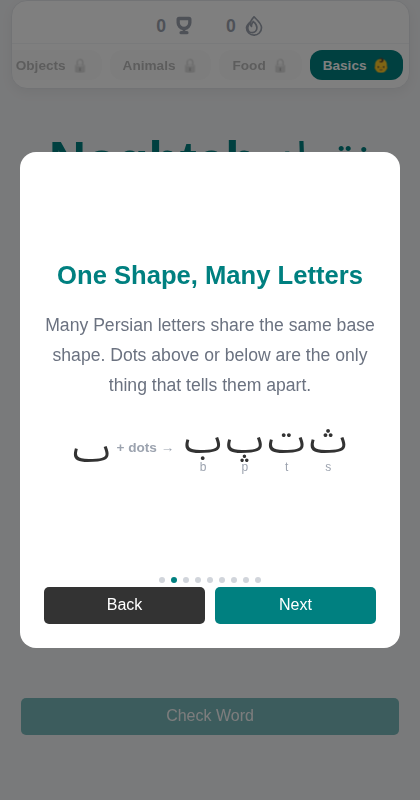
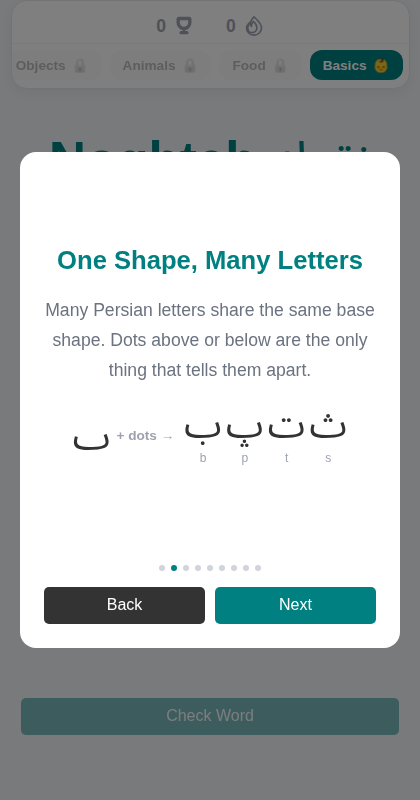
style: space out progress dots from nav buttons, char from sound label
Both were sitting flush against their neighbor, making the slide feel
squashed.

diff --git a/src/App.css b/src/App.css
@@ -495,13 +495,15 @@ button:active {
   font-size: 0.75rem;
   color: #9ca3af;
   direction: ltr;
+  margin-top: 6px;
 }
 
 .family-intro-progress {
   display: flex;
   justify-content: center;
   gap: 6px;
-  margin-top: 4px;
+  margin-top: 16px;
+  margin-bottom: 16px;
 }
 
 .family-intro-dot {
@@ -524,7 +526,7 @@ button:active {
 .family-intro-close,
 .family-intro-next,
 .family-intro-back {
-  margin-top: 4px;
+  margin-top: 0;
 }
 
 @media (max-width: 480px) {
